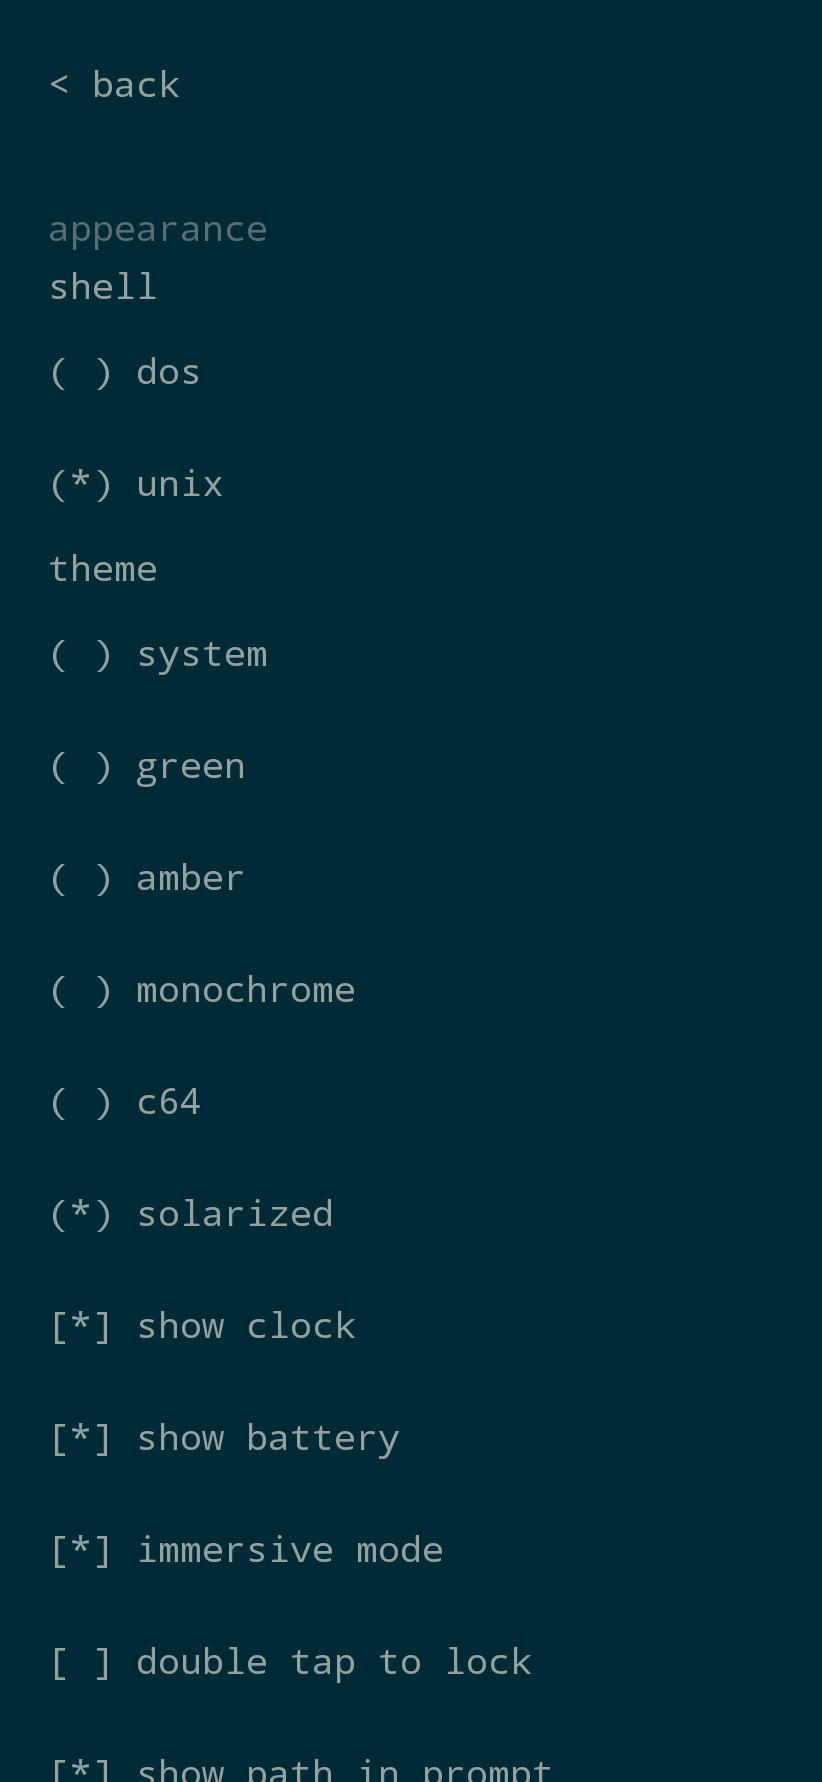
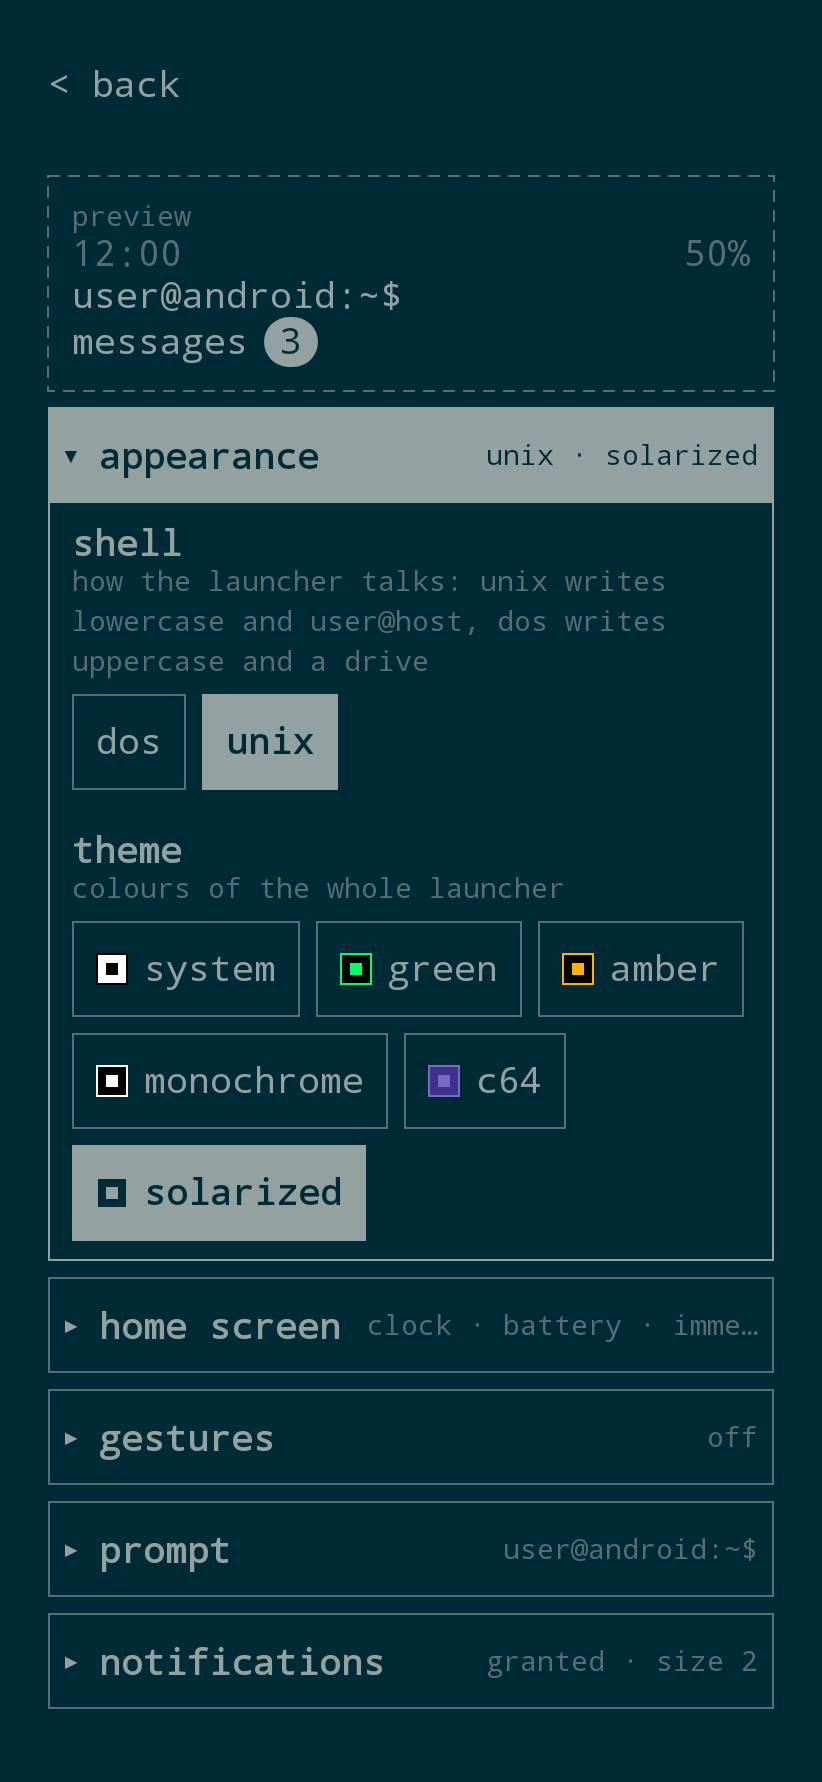
docs: describe the explained settings

diff --git a/docs/design.md b/docs/design.md
@@ -62,7 +62,11 @@ Each theme is three colours: the background, the colour what can be started is w
 
 ## Settings
 
-Settings are opened with the `settings` command, which `help` lists along with the others. The screen reads in the selected shell, the way Home does: every section title, option, toggle, and the back row is written by `ShellProfile`, so DOS reads `< BACK`, `APPEARANCE`, and `[*] SHOW CLOCK` while Unix reads them lowercase. Choosing the other shell rewrites the screen where it stands, and Compose branches on nothing.
+Settings are opened with the `settings` command, which `help` lists along with the others. The screen reads in the selected shell, the way Home does: every section title, label, description, summary, and the back row is written by `ShellProfile`, so DOS reads `< BACK`, `APPEARANCE`, and `SHOW CLOCK` while Unix reads them lowercase. Choosing the other shell rewrites the screen where it stands, and Compose branches on nothing.
+
+The screen opens on a preview of Home and five sections, all collapsed: appearance, home screen, gestures, prompt, and notifications. A collapsed section writes what it is set to on its right, such as `unix · solarized` or the prompt itself, so the screen can be read without opening anything. Tapping a section opens it in place and closes the one already open, so the preview stays next to what is being changed; tapping it again closes it, and the open section survives a rotation. Inside, every setting carries one line saying what it changes. Choices sit side by side and the chosen one is inverted, toggles read `[x]` or `[ ]`, and a badge colour keeps its palette closed until it is tapped.
+
+The preview writes what Home would write with the current settings: the status line with a sample clock and battery, the prompt, and a sample application named `messages` with a badge of `3` while notification access is granted. It answers no touch. A change outlines the part of the preview it touched for about a second, and the whole preview when it took a part away or recoloured everything. The prompt section lists only what the selected shell writes, as `ShellProfile` declares it: the identity, the symbol, and the path on Unix, the drive and the path on DOS. The badge settings wait for notification access, since they change nothing until Android grants it.
 
 `Immersive mode`, on by default, keeps the status and navigation bars hidden and brings them back only as transient bars on a swipe. Turning it off leaves the system bars on screen, and Home keeps its content clear of them.
 
